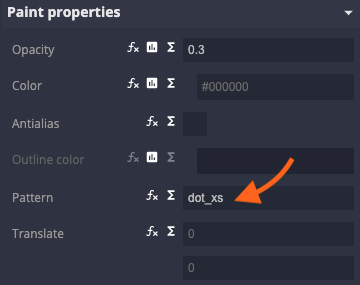
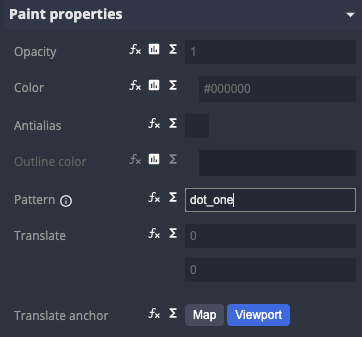
add a post mapbox texture

diff --git a/content/post/mapbox_texture.md b/content/post/mapbox_texture.md
@@ -1,71 +1,91 @@
 ---
 title: "Add a texture on Mapbox style"
-date: 2021-08-17T17:40:31+09:00
-draft: true
+date: 2021-08-18T17:40:31+09:00
 metaAlignment: "center"
+thumbnailImagePosition: "left"
+thumbnailImage: img/textured_style.png
 categories:
 - cartography
 tags:
 - mapbox
+- MapTiler
 ---
 
-Mapboxスタイルのfillレイヤにテクスチャを入れて質感をもたせよう
+Textured layer make your map more expressive. This is a step by step instruction to creat them.
 
-![textured_style](/img/textured_style.png)
 <!--more-->
 
-通常のスタイルだとベタ塗りしか選べない。パターンをfillレイヤに重ねることでアンティーク調にしたり独自の模様を持たせることができます。
+Mapbox style provides high quality and full range cartographic expression. But usually you can only select solid painting for fill layer. In this post, you will learn how to make a texured fill layer on MapTiler Cloud. With this technique, you will make the map more expressive like paper like or fabric like for your web app.
 
-# How to make antique map?
+{{<image classes="fancybox center clear" src="/img/textured_style.png" thumbnail-width="80%" title="textured style">}}
 
-## SVGを作る
-fillレイヤに使いたいパターンをSVGで作る
-今回はドットのパターンを使うことにします。
-ポイント
+# How to make textured layer
 
-- MapTilerのSpriteにはアップロード上限があるのであまり大きくならないように気をつける
-- SVGはレイヤに敷き詰められるときに余白が連続したりパターン詰まってしまわないよう、パターンの間隔と余白を計算して作成する
+## make SVG for pattern
 
-今回は比較のために4種類のドットを用意。すべて32×32px
-![dot_32](/img/dot_32.png)
-![dot_l](/img/dot_l.png)
-![dot_s](/img/dot_s.png)
-![dot_xs](/img/dot_xs.png)
+First, make a SVG file for pattern which will be used in fill layer. I tried four size dots as a experiments that how it will appeared in the map. SVG file export is supported almost all of painting application, so use any app which is conftorble.
 
-## スタイルに適用する
-- 作成したsvgをひとつのフォルダにまとめ、zip化
-- Symbolsにアップする
-![sprite_upload_page](/img/sprite_upload_page.png)
-![sprite_upload_page](/img/uploaded_sprite.png)
+There are two thigs that you should know.
+- there's a limit of volume of uploading file of SVGs, which is ziped SVG files.
+- Make sure the spaces and figures of SVG to prevent a continuous figures or unintended large spaces.
 
-- スタイルエディタを立ち上げてfillレイヤを作成する
-  - 今回はwaterにテクスチャをつける
+These are the four dots I compared. Each SVG file is 32 by 32 px.
 
-waterのレイヤを新たに作成し、patternにsvgを指定する
+{{<image classes="fig-25 clear" src="/img/dot_32.png" title="a dot">}}
+{{<image classes="fig-25 clear" src="/img/dot_l.png" title="large dots">}}
+{{<image classes="fig-25 clear" src="/img/dot_s.png" title="medium dots">}}
+{{<image classes="fig-25 clear" src="/img/dot_xs.png" title="small dots">}}
 
 
-![create_layer](/img/create_layer.png)
-![add_param_on_pattern](/img/add_param_on_pattern.png)
+## Add patterns to a layer
 
-4つの結果
-![white_one](/img/wone.png)
-訳がわからないのでもう一枚青色のwaterのレイヤをつくっておく
+Access to MapTiler Cloud and let's create a map.
 
+To upload SVGs, files should be ziped. This zip file can uploaded at Symbol page as a seed of Sprite that is usually used for markers for POI. When the zip file successfully uploaded, the pattern will be displayed.
 
+{{<image classes="fancybox center clear" src="/img/uploaded_sprite.png" thumbnail-width="80%" title="uploaded svg">}}
 
-![blue_one](/img/bone.png)
-![blue_l](/img/bl.png)
-![blue_s](/img/bs.png)
-![blue_xs](/img/bxs.png)
+Start the style editor and create a new fill layer. As an example I used water layer as a source layer but you can use any of polygon layer.
 
-テクスチャっぽくなった！
+{{<image classes="center clear" src="/img/create_layer.png" title="layer definition">}}
 
-ちょっと暗いのでパターンのレイヤの透過度を調整してあげる
-![blue_xs](/img/lightblue_xs.png)
+You will find "Pattern" property in Paint property section. This edit field will suggest you which SVG would you like to use. Just select one.
+{{<image classes="center clear" src="/img/add_param_on_pattern.png" title="add svg name at pattern property">}}
 
 
-参考
+This is the result of SVG of a dot specified os "Pattern" property. Looks not good though.
 
+{{<image classes="center clear" src="/img/wone.png" thumbnail-width="80%" title="water layer with a dot pattern">}}
+
+
+Add a normal fill water layer under the pattern layer and set the "Color" blue. Looks nice. And these are the result of four dots SVGs. Pattern with small dots looks well textured.
+
+
+{{<image classes="fig-50 clear" src="/img/bone.png" title="a dot">}}
+{{<image classes="fig-50 clear" src="/img/bl.png" title="large dots">}}
+{{<image classes="fig-50 clear" src="/img/bs.png" title="medium dots">}}
+{{<image classes="fig-50 clear" src="/img/bxs.png" title="small dots">}}
+
+For the final style, adjust "Opacity" at 0.3 to lighten the map.
+
+{{<image classes="fancybox center clear" src="/img/lightblue_xs.png" thumbnail-width="80%" title="small dots">}}
+
+## Note
+
+There are some limitation when you use pattern layer in Mapbox style.
+
+- When you use "Pattern" property, any other Paint property will not work except "Opacity".
+  - If you want add colored background on same source layer, add another layer and set "Color".
+- Color of pattern can't be changed on mapbox style. Make SVG with dark color and adjust with "Opacity".
+- The data driven specification is not implemented yet nor the mapbox style expression will not work. Which means if you want to change the pattern size along zoom levels, just create layers for each zoom levels.
+
+
+---
+
+I hope I will find expressive maps!
+
+
+References
 [Mapbox style specification - layers background](https://docs.mapbox.com/mapbox-gl-js/style-spec/layers/#background)
 
 (c)MapTiler (c)OpenStreetMap contributors

diff --git a/content/post/relative_elevation_model.md b/content/post/relative_elevation_model.md
@@ -19,7 +19,7 @@ keywords:
 - geography
 - dem
 ---
-When you have a DEM, digital elevation model, you will find mountains and valleys. Would you like to find out more? Let's make a relative elevation model.
+When you have a DEM, you will find mountains and valleys. Would you like to find out more? Let's make a relative elevation model.
 <!--more-->
 
 # Reveal floodplain with elative elevation model
